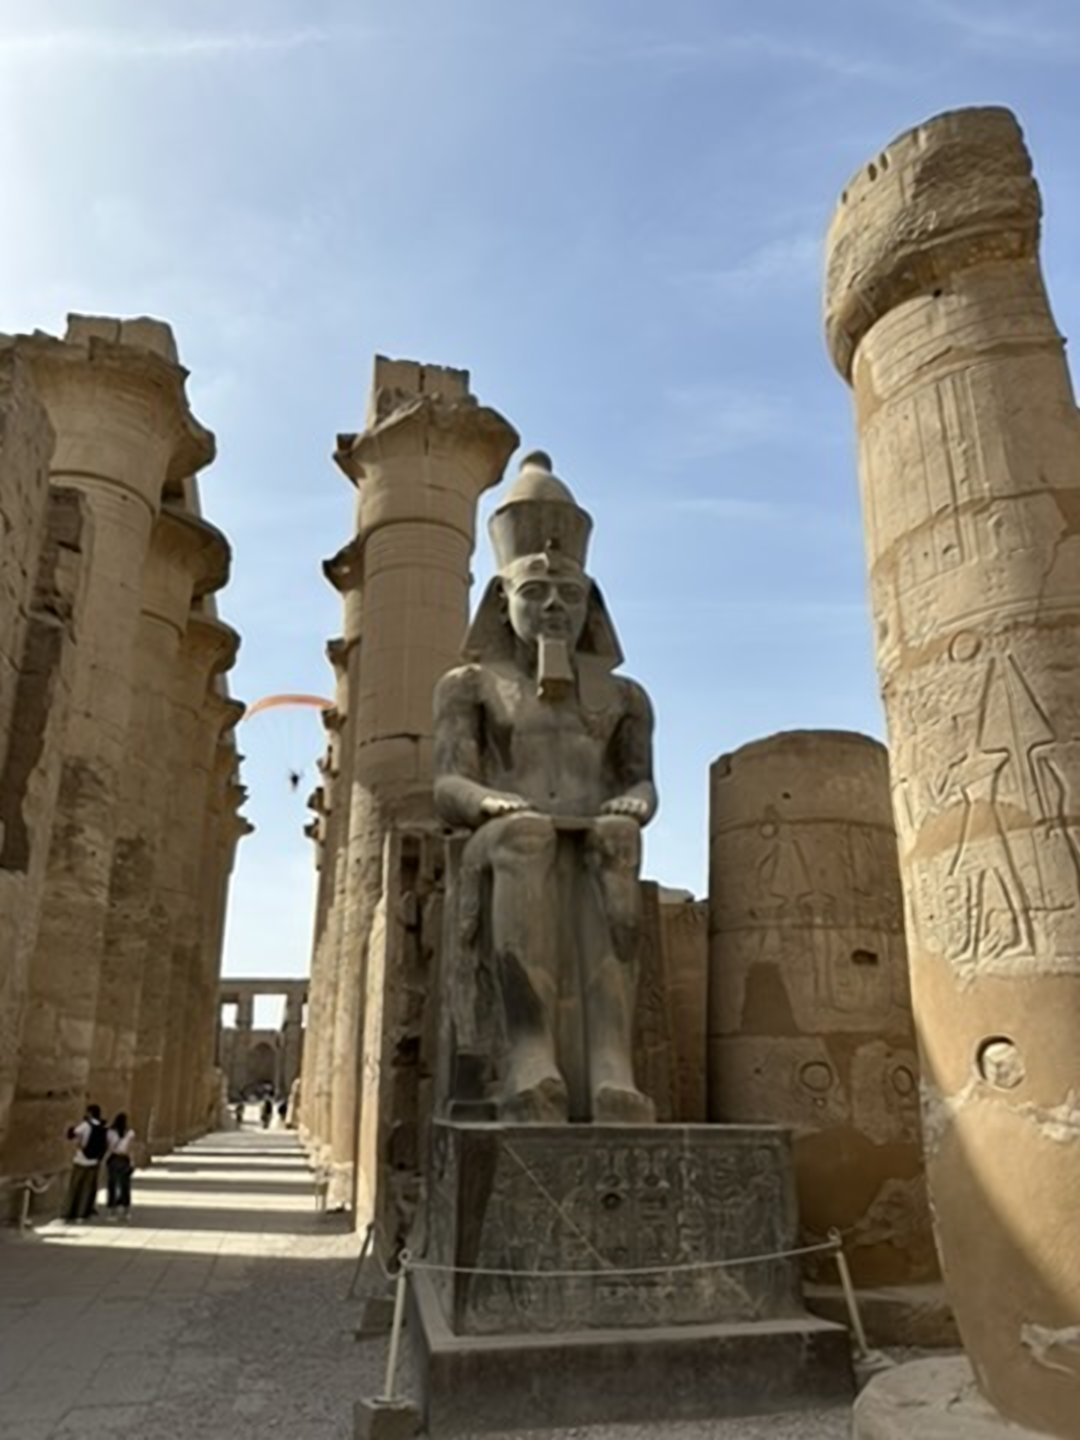
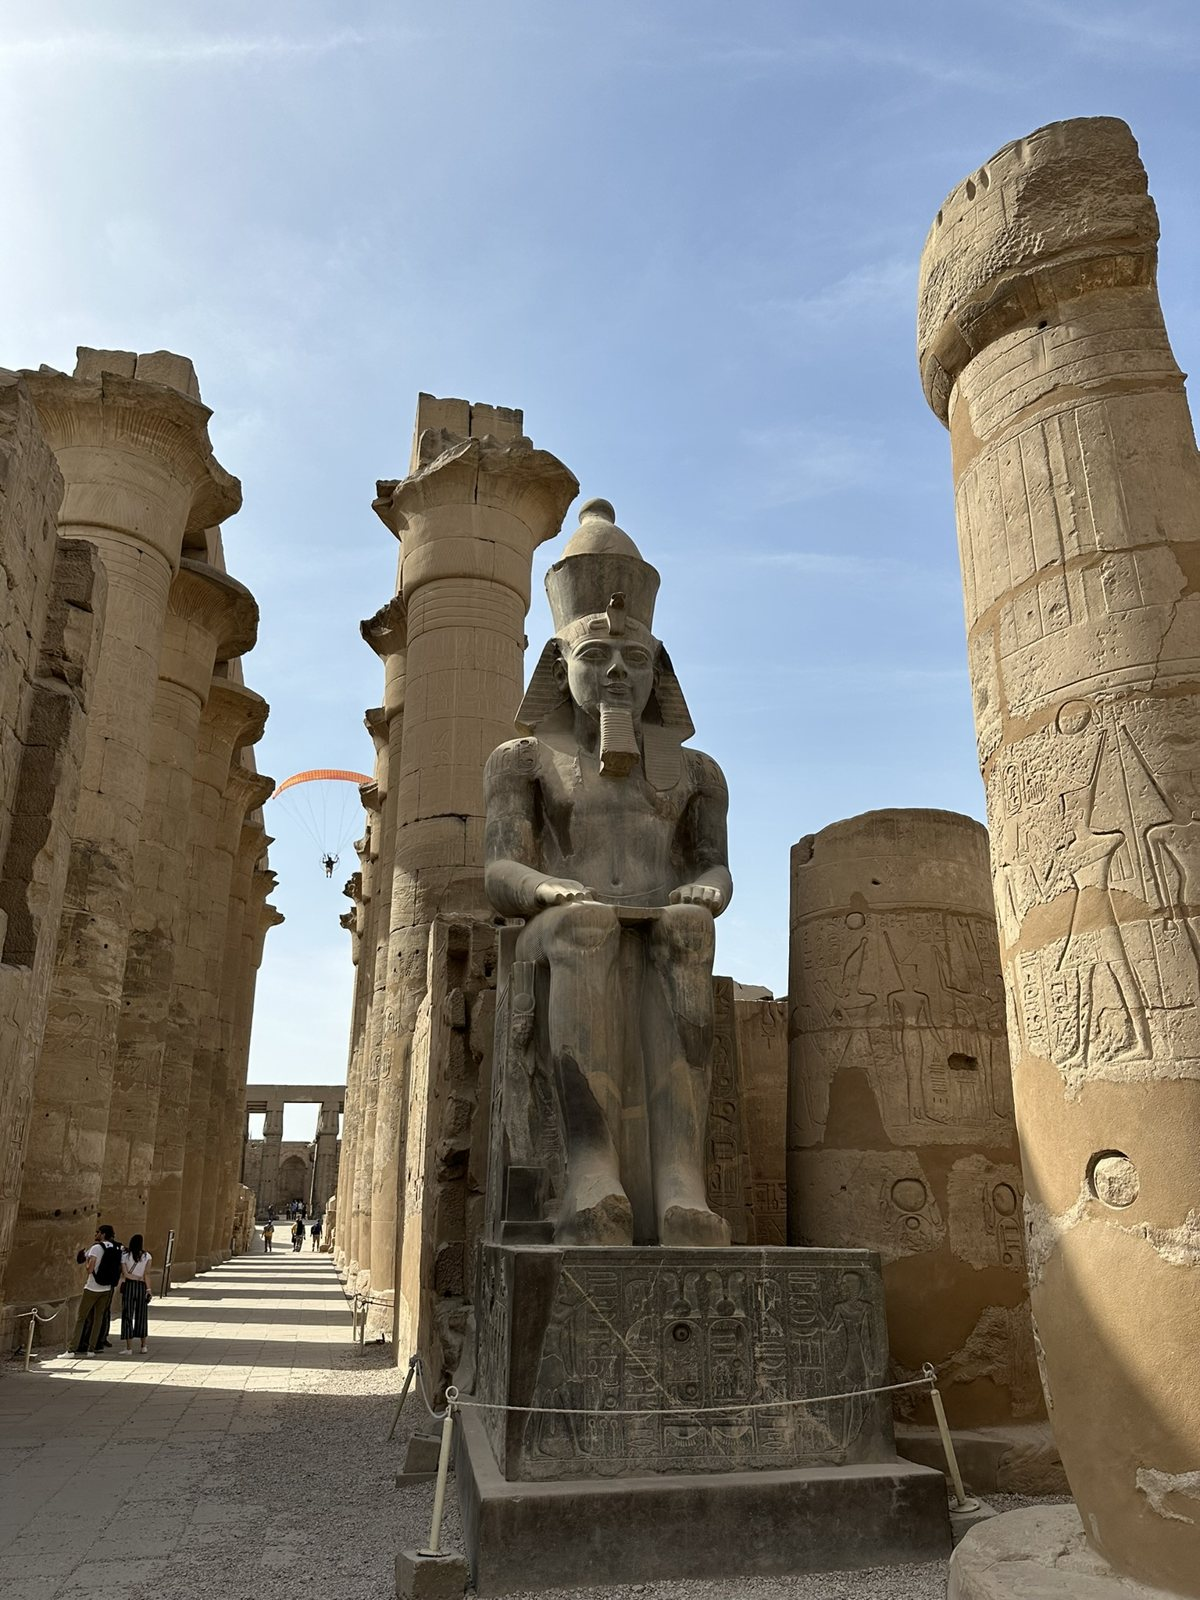
Egypt post: sharper photos of Luxor Temple and Philae
Claude-Session: https://claude.ai/code/session_01HuzLqhE1N2LXEfqC3bb9e5

diff --git a/_posts/2023-11-30-egypt-where-the-writing-ended.md b/_posts/2023-11-30-egypt-where-the-writing-ended.md
@@ -207,7 +207,7 @@ Philae is where the story ends. In the UNESCO campaign, the temple of Isis was d
 *The first pylon at Philae, where Ptolemy XII smites his enemies before Isis, as he does at Edfu.*
 {: .caption}
 
-![Columns of the temple of Isis at Philae](/assets/images/egypt-2023/philae.jpg)
+![Johnew leaning on a column among the carved capitals at Philae](/assets/images/egypt-2023/philae.jpg)
 *Philae, the temple of Isis, rebuilt on Agilkia Island.*
 {: .caption}
 
